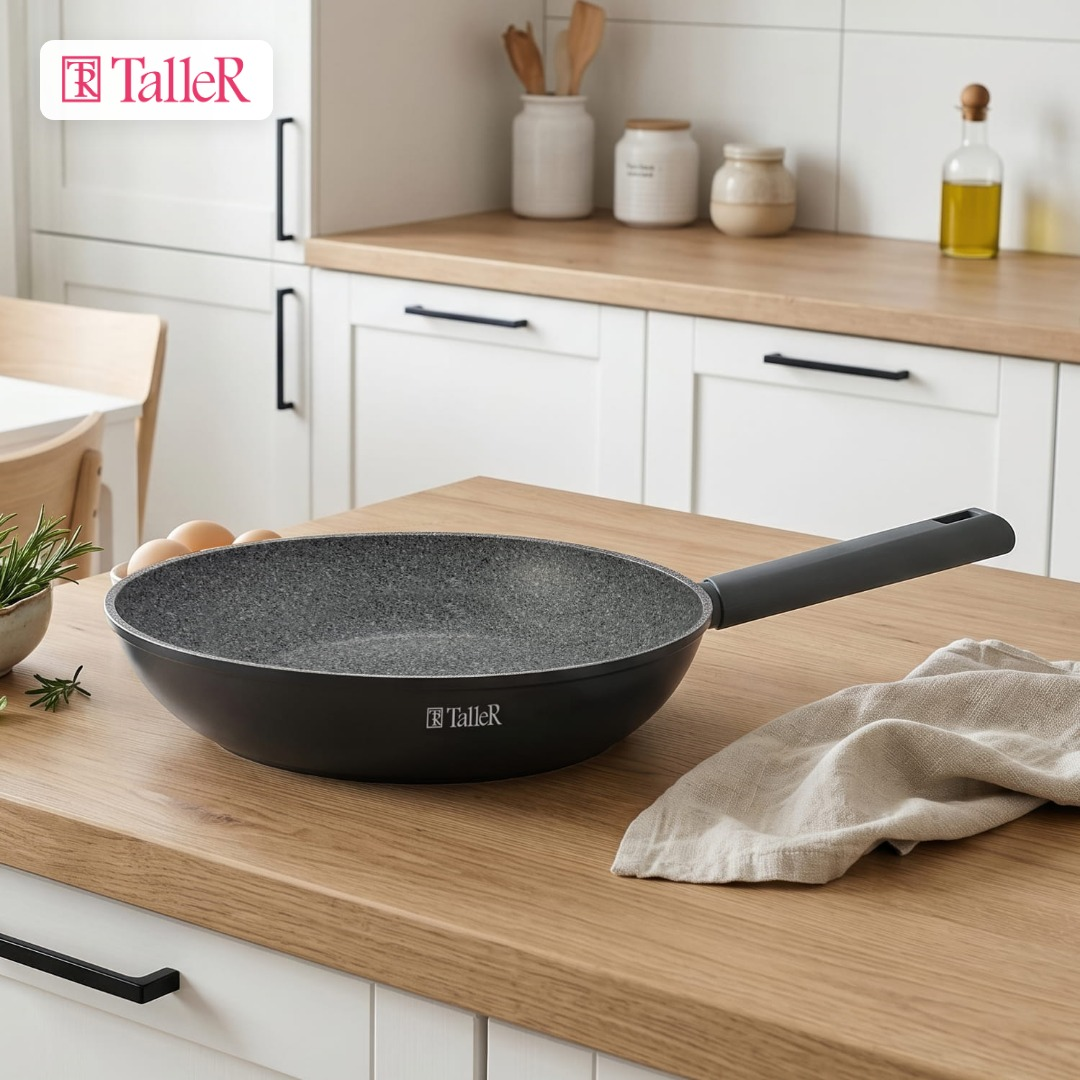
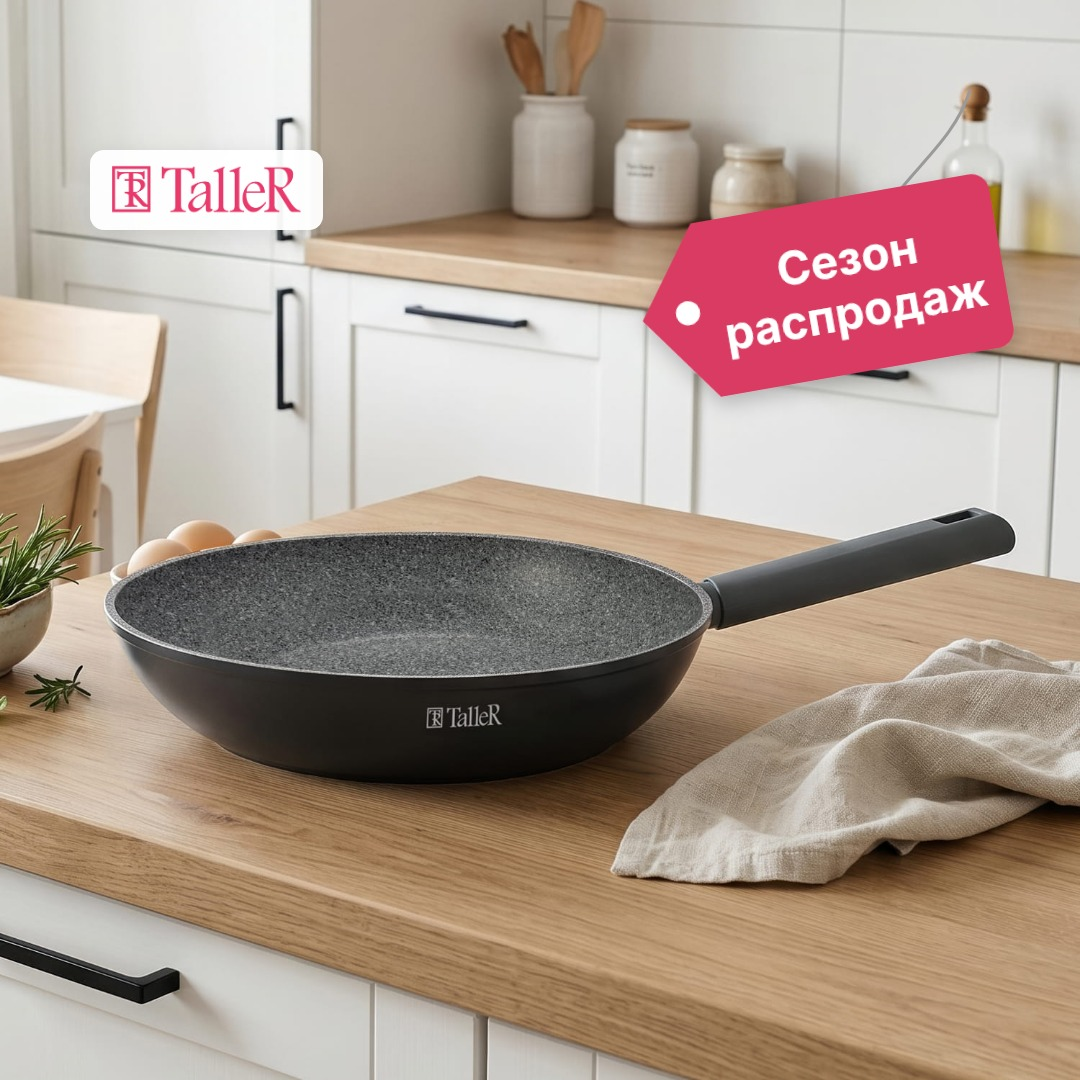
Промостраницы: логотип в безопасной зоне обложек, бирка «Сезон распродаж» на обложке 1
Промостраницы обрезают края мобильной обложки, и логотип у самого края пропадал.

Claude-Session: https://claude.ai/code/session_01CxvTE6exsJmF7f9xcSBJnN

Changed region(s): [[0.5806, 0.1222, 0.9472, 0.3972], [0.0306, 0.0306, 0.3056, 0.2139]]

diff --git a/promopages/tools/covers.py b/promopages/tools/covers.py
@@ -9,16 +9,30 @@ covers = [  # имя, фото, фокус для 1:1, фокус для 2:1
  ("03_greystoun", "44036g/59l4vrgf6b", "center 50%", "center 45%"),
  ("04_mineral-krevetki", "44024/uic0b647gh", "center 50%", "center 52%"),
 ]
+SALE = {"01_antracit-kuhnya"}
+TAG = """<div style="position:absolute;top:{top}px;right:{right}px;transform:scale({sc});transform-origin:top right">
+<svg width="400" height="300" viewBox="0 0 400 300" xmlns="http://www.w3.org/2000/svg" style="display:block;overflow:visible">
+<path d="M350 -40 C 335 10, 290 40, 262 84" stroke="#9a9a9a" stroke-width="3" fill="none"/>
+<g transform="rotate(-10 200 160)" filter="url(#sh)">
+<path d="M84 72 H366 a18 18 0 0 1 18 18 V230 a18 18 0 0 1 -18 18 H84 L20 160 Z" fill="#DA3B64"/>
+<circle cx="66" cy="160" r="12" fill="#fff"/>
+<text x="232" y="150" text-anchor="middle" font-family="Inter" font-weight="700" font-size="46" fill="#fff">Сезон</text>
+<text x="232" y="204" text-anchor="middle" font-family="Inter" font-weight="700" font-size="46" fill="#fff">распродаж</text>
+</g>
+<defs><filter id="sh" x="-20%" y="-20%" width="140%" height="150%"><feDropShadow dx="0" dy="8" stdDeviation="10" flood-opacity=".22"/></filter></defs>
+</svg></div>"""
 sizes = [("mob_1080x1080", 1080, 1080, 2), ("desk_1600x800", 1600, 800, 3)]
 for c in covers:
     name, photo, fm, fd = c[:4]; dphoto = c[4] if len(c) > 4 else photo
     for tag, w, h, idx in sizes:
         pos = fm if idx == 2 else fd
         lh = 52 if w == 1080 else 56
+        ty, tx = (150, 90) if w == 1080 else (130, 150)
+        tagh = TAG.format(top=(ty-20) if w == 1080 else 40, right=(tx-30) if w == 1080 else 120, sc=1.0 if w == 1080 else 0.9) if name in SALE else ''
         html = f"""<!doctype html><html><head><meta charset="utf-8"><style>
 *{{margin:0;padding:0}} body{{width:{w}px;height:{h}px;overflow:hidden;background:#fff url({img(photo if idx == 2 else dphoto)}) {pos}/cover no-repeat;position:relative}}
-.logo{{position:absolute;top:40px;left:40px;background:rgba(255,255,255,.95);padding:14px 22px;border-radius:14px;box-shadow:0 6px 24px rgba(0,0,0,.10)}}
-.logo img{{height:{lh}px;display:block}}</style></head><body><div class="logo"><img src="{logo}"></div></body></html>"""
+.logo{{position:absolute;top:{ty}px;left:{tx}px;background:rgba(255,255,255,.95);padding:14px 22px;border-radius:14px;box-shadow:0 6px 24px rgba(0,0,0,.10)}}
+.logo img{{height:{lh}px;display:block}}</style></head><body><div class="logo"><img src="{logo}"></div>{tagh}</body></html>"""
         p = pathlib.Path(f'{S}/cov_{name}_{tag}.html'); p.write_text(html)
         js = f"const {{chromium}}=require('playwright');(async()=>{{const b=await chromium.launch();const pg=await b.newPage({{viewport:{{width:{w},height:{h}}}}});await pg.goto('file://{p}');await pg.waitForTimeout(300);await pg.screenshot({{path:'{D}/{name}_{tag}.jpg',type:'jpeg',quality:92}});await b.close();}})();"
         subprocess.run(['node','-e',js],check=True)
